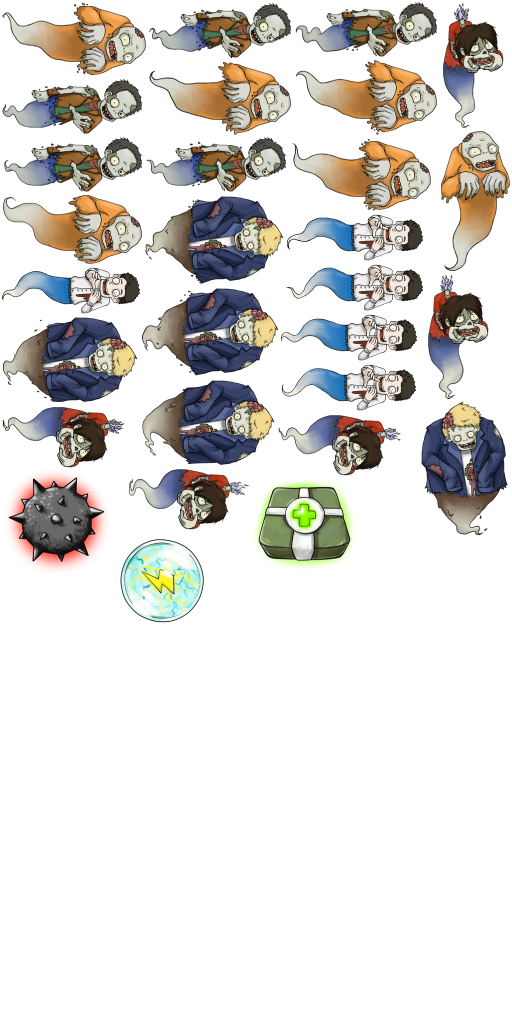
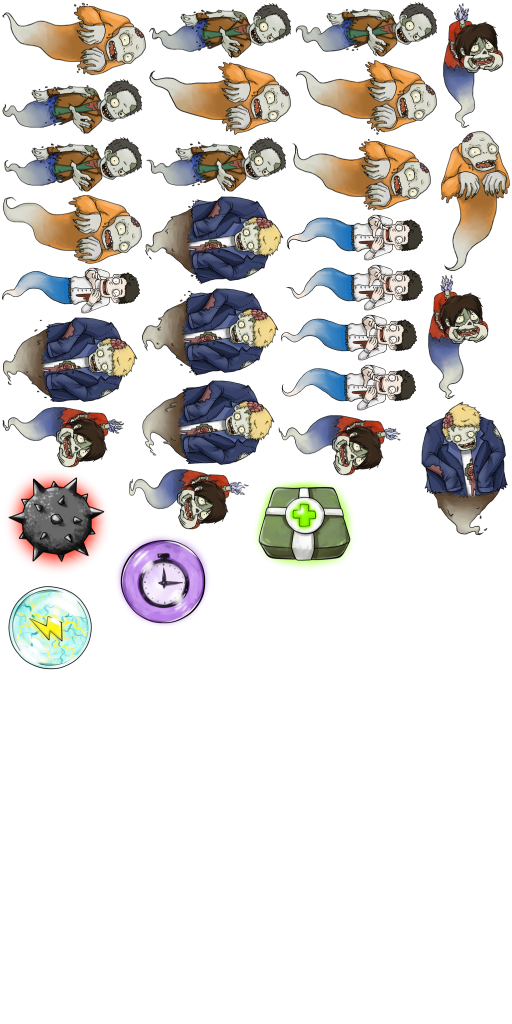
Добавлен там-бонус, удалены ненужные ресурсы.

Changed region(s): [[0.2188, 0.5, 0.4062, 0.625], [0.0, 0.5625, 0.1875, 0.6562]]

diff --git a/tap-tap-Zombie/Zombie.m b/tap-tap-Zombie/Zombie.m
@@ -81,7 +81,7 @@
 //                labelStr = @"time bonus"; 
 //                c = ccc3(0, 255, 0);
                 award = 5.0f;
-                skinIndex = 7;
+                skinIndex = 8;
             } break;
                 
             case ZombieTypeShield:
